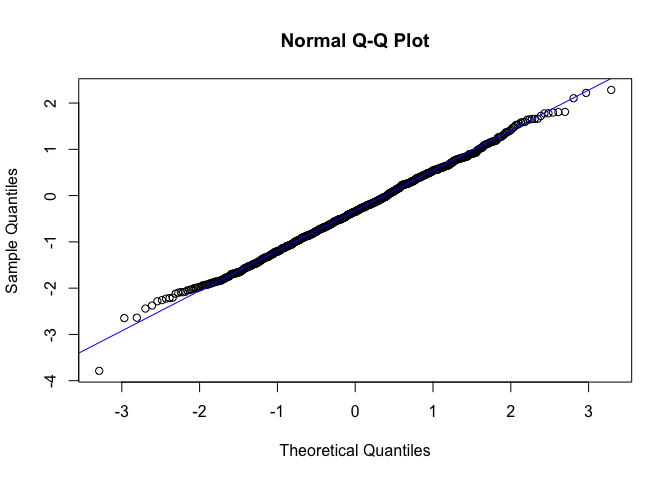
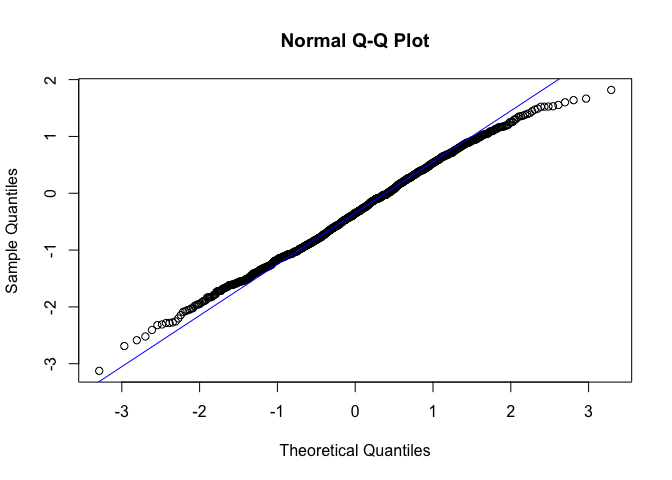
20220504

diff --git a/README.md b/README.md
@@ -53,4 +53,4 @@ normalityCheckLogND(logND)
     #>  Shapiro-Wilk normality test (null hypothesis: data is ND)
     #> 
     #> data:  data.log
-    #> W = 0.9982, p-value = 0.3763
+    #> W = 0.99649, p-value = 0.02444
